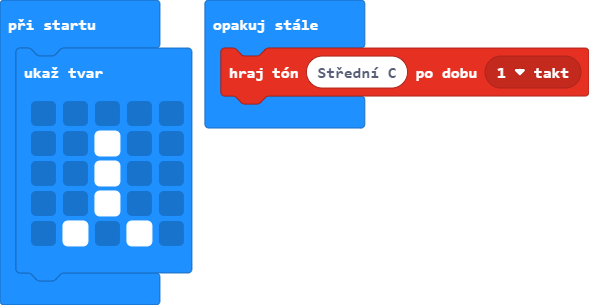
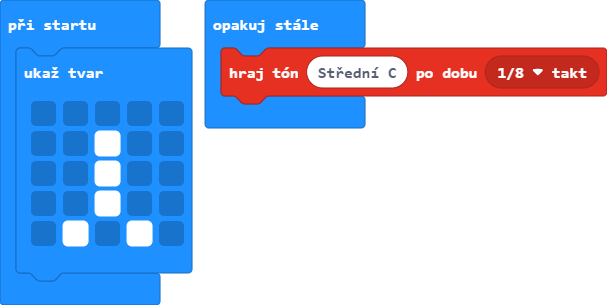
1/8

diff --git a/main.ts b/main.ts
@@ -6,5 +6,5 @@ basic.showLeds(`
     . # . # .
     `)
 basic.forever(function () {
-    music.playTone(262, music.beat(BeatFraction.Whole))
+    music.playTone(262, music.beat(BeatFraction.Eighth))
 })
